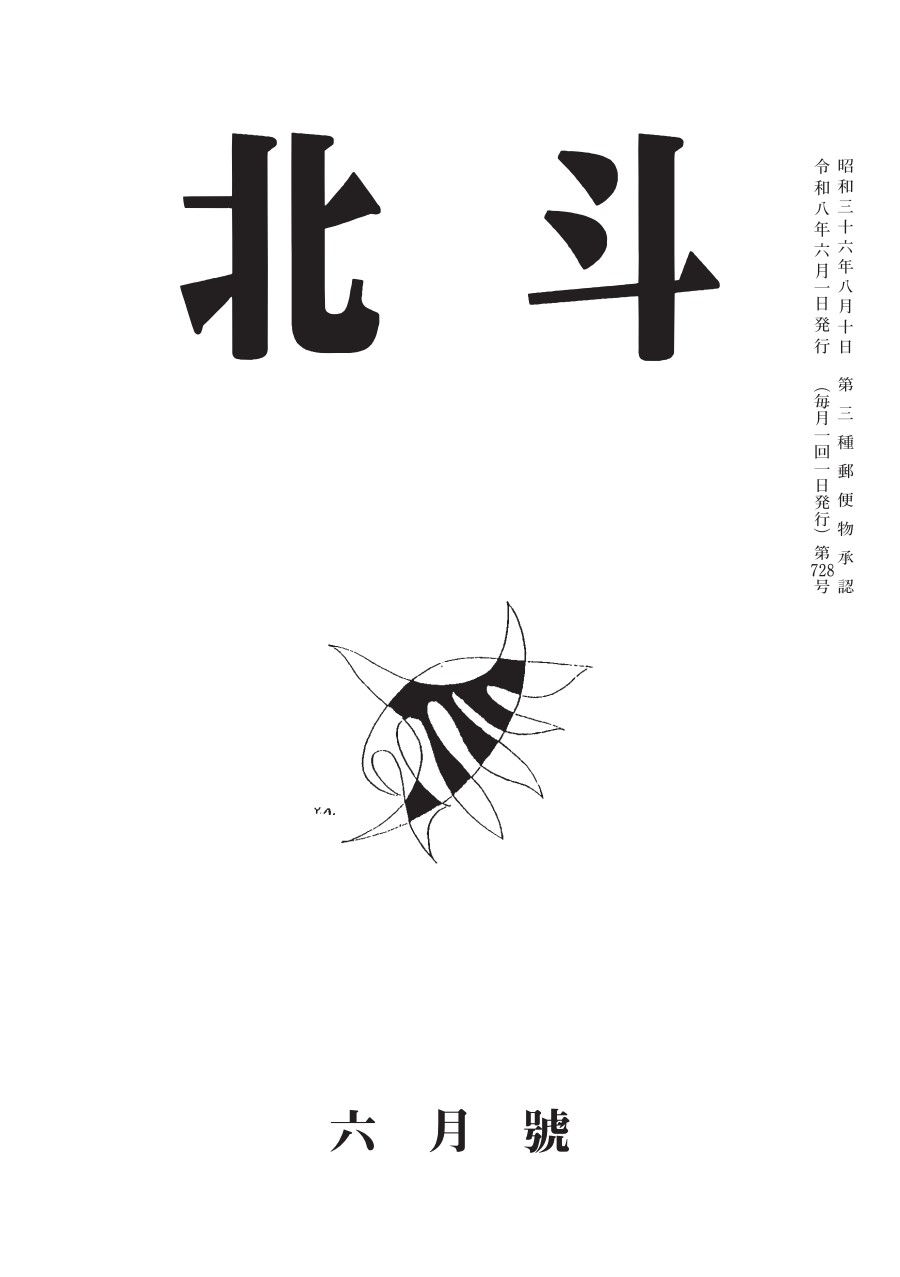
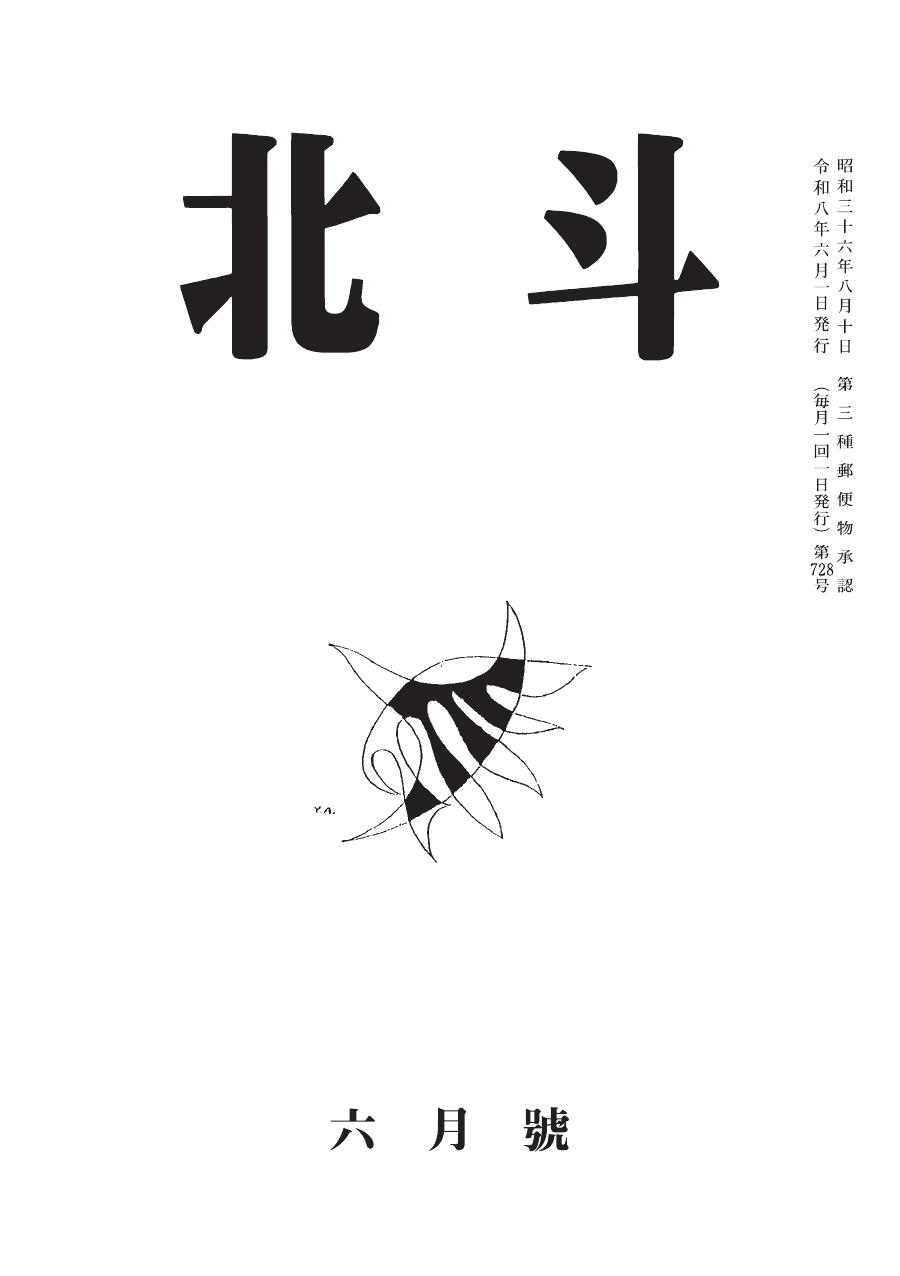
第730号とバックナンバー表紙を更新

diff --git a/index_a.html b/index_a.html
@@ -43,9 +43,9 @@
 
     <!-- ================================================================
          【毎月の更新方法】新しい号が出たとき
-         1. 表紙の画像を images フォルダに入れる（ファイル名の例：cover_729.jpg）
-         2. 下の cover_728.jpg → cover_729.jpg に書き換える
-         3. 「第 728 号」「令和8年（2026年）6月1日発行」を新しい号に書き換える
+         1. 表紙の画像を images フォルダに入れる（ファイル名の例：cover_731.jpg）
+         2. 下の cover_730.jpg → cover_731.jpg に書き換える
+         3. 「第 730 号」「令和8年（2026年）9月1日発行」を新しい号に書き換える
          4. 目次の表（作品名・著者・ページ）を新しい号の内容に書き換える
          ================================================================ -->
 
@@ -54,51 +54,53 @@
       <div class="latest-issue-body">
 
         <div class="cover-area">
-          <img src="images/cover_728.jpg" alt="北斗 第728号（令和8年6月號）表紙" class="cover-img">
-          <p class="cover-caption">第728号　頒価：500円</p>
+          <img src="images/cover_730.jpg" alt="北斗 第730号（令和8年9月號）表紙" class="cover-img">
+          <p class="cover-caption">第730号　頒価：500円</p>
         </div>
 
         <div class="toc-area">
           <h2>目　次</h2>
-          <p class="toc-meta">第 728 号　令和8年（2026年）6月1日発行</p>
+          <p class="toc-meta">第 730 号　令和8年（2026年）9月1日発行</p>
 
           <div class="toc-genre">
             <span class="toc-genre-label">小　説</span>
             <table class="toc-table">
-              <tr><td class="work-title">終の住み処を探して</td><td class="work-author">永野佳奈子</td><td class="work-page">p.2</td></tr>
-              <tr><td class="work-title">おれの日常を取り戻すことの件（二）</td><td class="work-author">高田杜康</td><td class="work-page">p.6</td></tr>
-              <tr><td class="work-title">ひとりになれば（その五）</td><td class="work-author">藁科眞魚</td><td class="work-page">p.10</td></tr>
+              <tr><td class="work-title">面白くて非なるもの</td><td class="work-author">永野佳奈子</td><td class="work-page">p.2</td></tr>
+              <tr><td class="work-title">おれの日常を取り戻すことの件（四）</td><td class="work-author">高田杜康</td><td class="work-page">p.6</td></tr>
+              <tr><td class="work-title">ひとりになれば（その六）</td><td class="work-author">藁科眞魚</td><td class="work-page">p.10</td></tr>
             </table>
           </div>
 
           <div class="toc-genre">
             <span class="toc-genre-label poem">詩</span>
             <table class="toc-table">
-              <tr><td class="work-title">発泡スチロール</td><td class="work-author">藁科眞魚</td><td class="work-page">p.12</td></tr>
+              <tr><td class="work-title">バンビが死んだ日</td><td class="work-author">藁科眞魚</td><td class="work-page">p.12</td></tr>
             </table>
           </div>
 
           <div class="toc-genre">
             <span class="toc-genre-label essay">エッセイ</span>
             <table class="toc-table">
-              <tr><td class="work-title">文明か野蛮か</td><td class="work-author">竹中　忍</td><td class="work-page">p.14</td></tr>
-              <tr><td class="work-title">視聴率</td><td class="work-author">寺田　繁</td><td class="work-page">p.16</td></tr>
-              <tr><td class="work-title">現代人が失った能力 ／ 庭の客人</td><td class="work-author">池田龍一</td><td class="work-page">p.18</td></tr>
+              <tr><td class="work-title">山村生活―その後―　変わりゆく環境／天動説</td><td class="work-author">池田龍一</td><td class="work-page">p.14</td></tr>
+              <tr><td class="work-title">スーダラ受験生</td><td class="work-author">寺田　繁</td><td class="work-page">p.18</td></tr>
+              <tr><td class="work-title">ねこんけ雨</td><td class="work-author">椎名ゆき</td><td class="work-page">p.20</td></tr>
+              <tr><td class="work-title">忙中悲哀あり――愛犬との暮らし</td><td class="work-author">竹中　忍</td><td class="work-page">p.23</td></tr>
             </table>
           </div>
 
           <div class="toc-genre">
             <span class="toc-genre-label critic">評　論</span>
             <table class="toc-table">
-              <tr><td class="work-title">平塚らいてう（35）</td><td class="work-author">ゲンヒロ</td><td class="work-page">p.22</td></tr>
+              <tr><td class="work-title">平塚らいてう（36）</td><td class="work-author">ゲンヒロ</td><td class="work-page">p.54</td></tr>
             </table>
           </div>
 
           <div class="toc-genre">
             <span class="toc-genre-label misc">その他</span>
             <table class="toc-table">
-              <tr><td class="work-title">人工天文台（同人エッセイ欄）</td><td class="work-author">森さくら 他</td><td class="work-page">p.26</td></tr>
-              <tr><td class="work-title">編集後記</td><td class="work-author"></td><td class="work-page">p.32</td></tr>
+              <tr><td class="work-title">人工天文台（同人エッセイ欄）</td><td class="work-author">同人各位</td><td class="work-page">p.58</td></tr>
+              <tr><td class="work-title">「北斗」ホームページ開設のお知らせ</td><td class="work-author"></td><td class="work-page">p.63</td></tr>
+              <tr><td class="work-title">編集後記</td><td class="work-author"></td><td class="work-page">p.64</td></tr>
             </table>
           </div>
 
@@ -113,8 +115,8 @@
       <h3>お知らせ・会合案内</h3>
       <ul class="notice-list">
         <li>
-          <span class="notice-date">2026年6月1日</span>
-          <span><span class="notice-new">NEW</span>第728号（令和8年6月號）を発行しました。</span>
+          <span class="notice-date">2026年9月1日</span>
+          <span><span class="notice-new">NEW</span>第730号（令和8年9月號）を発行しました。</span>
         </li>
         <!-- ▼ 次回会合の日時が決まったら、下の行を書き換えてください ▼ -->
         <li>
@@ -137,24 +139,24 @@
       <div class="sidebar-block-body">
         <ul class="bn-side-list">
           <li>
-            <div class="bn-thumb-placeholder">北斗</div>
+            <div class="bn-thumb"><img src="images/cover_729.jpg" alt="第729号 表紙"></div>
+            <div class="bn-info"><div class="bn-num"><a href="backnumber_a.html#no729">第729号</a></div><div class="bn-date">令和8年 七・八月合併號</div></div>
+          </li>
+          <li>
+            <div class="bn-thumb"><img src="images/cover_728.jpg" alt="第728号 表紙"></div>
+            <div class="bn-info"><div class="bn-num"><a href="backnumber_a.html#no728">第728号</a></div><div class="bn-date">令和8年6月號</div></div>
+          </li>
+          <li>
+            <div class="bn-thumb"><img src="images/cover_727.jpg" alt="第727号 表紙"></div>
             <div class="bn-info"><div class="bn-num"><a href="backnumber_a.html#no727">第727号</a></div><div class="bn-date">令和8年5月號</div></div>
           </li>
           <li>
-            <div class="bn-thumb-placeholder">北斗</div>
+            <div class="bn-thumb"><img src="images/cover_726.jpg" alt="第726号 表紙"></div>
             <div class="bn-info"><div class="bn-num"><a href="backnumber_a.html#no726">第726号</a></div><div class="bn-date">令和8年4月號</div></div>
           </li>
           <li>
-            <div class="bn-thumb-placeholder">北斗</div>
+            <div class="bn-thumb"><img src="images/cover_725.jpg" alt="第725号 表紙"></div>
             <div class="bn-info"><div class="bn-num"><a href="backnumber_a.html#no725">第725号</a></div><div class="bn-date">令和8年3月號</div></div>
-          </li>
-          <li>
-            <div class="bn-thumb-placeholder">北斗</div>
-            <div class="bn-info"><div class="bn-num"><a href="backnumber_a.html#no724">第724号</a></div><div class="bn-date">令和8年2月號</div></div>
-          </li>
-          <li>
-            <div class="bn-thumb-placeholder">北斗</div>
-            <div class="bn-info"><div class="bn-num"><a href="backnumber_a.html#no723">第723号</a></div><div class="bn-date">令和8年1月號</div></div>
           </li>
         </ul>
         <p class="sidebar-more"><a href="backnumber_a.html">▶ バックナンバー一覧</a></p>
@@ -165,7 +167,7 @@
       <div class="sidebar-block-header">▶ 最近のブログ</div>
       <div class="sidebar-block-body">
         <ul class="blog-side-list">
-          <li><span class="blog-side-date">2026年6月1日</span><a href="blog_a.html#post005">第728号を発行しました</a></li>
+          <li><span class="blog-side-date">2026年9月1日</span><a href="index_a.html">第730号を発行しました</a></li>
           <li><span class="blog-side-date">例会報告</span><a href="blog_a.html#post004">例会を開催しました</a></li>
           <li><span class="blog-side-date">2023年10月</span><a href="blog_a.html#post003">北斗700號記念 文化セミナー</a></li>
           <li><span class="blog-side-date">2008年9月</span><a href="blog_a.html#post002">創刊550号記念会・受賞祝賀会</a></li>

diff --git a/backnumber_a.html b/backnumber_a.html
@@ -52,20 +52,58 @@
           （現在はPDF公開準備中です）
        ================================================================ -->
 
-  <div class="admin-note">
-    <strong>【管理者向けメモ】</strong><br>
-    第728号（令和8年6月號）のみ、実際の表紙・目次を掲載しています。<br>
-    それ以外の号は<strong>枠だけを用意した仮置き</strong>です。号数と発行月は「毎月1日発行」から逆算した想定値のため、
-    バックナンバー資料をいただき次第、正しい情報に差し替えます。<br>
-    PDFファイルは <code>pdfs/</code> フォルダに入れてください（例：<code>pdfs/hokuto_728.pdf</code>）。<br>
-    PDFが未公開の号は「PDF準備中」と表示しています。PDF公開時にダウンロードリンクへ差し替えてください。<br>
-    このメモ欄は公開前に削除してください（<code>&lt;div class="admin-note"&gt;〜&lt;/div&gt;</code> ごと削除）。
-  </div>
+  <p style="margin:0 0 22px;color:#6a5a40;font-size:0.9rem;line-height:1.9;">
+    表紙画像を掲載している号は、実際の表紙をご覧いただけます。本文PDFは現在公開準備中です。
+  </p>
 
   <!-- ▼▼▼ 令和8年（2026年） ▼▼▼ -->
   <div class="year-section">
     <div class="year-label">令和8年（2026年）</div>
     <div class="bn-grid">
+
+      <div class="card bn-card" id="no730">
+        <div class="bn-card-cover">
+          <img src="images/cover_730.jpg" alt="第730号 表紙">
+        </div>
+        <div class="bn-card-body">
+          <div class="bn-card-no">第730号</div>
+          <div class="bn-card-date">令和8年9月1日発行　頒価500円</div>
+          <details style="margin-top:8px;">
+            <summary class="bn-toc-toggle">▶ 目次を見る</summary>
+            <div class="bn-toc-content">
+              【小説】面白くて非なるもの／永野佳奈子<br>
+              【小説】おれの日常を取り戻すことの件（四）／高田杜康<br>
+              【小説】ひとりになれば（その六）／藁科眞魚<br>
+              【詩】バンビが死んだ日／藁科眞魚<br>
+              【エッセイ】山村生活―その後―　変わりゆく環境／天動説／池田龍一<br>
+              【評論】平塚らいてう（36）／ゲンヒロ<br>
+              人工天文台／編集後記　ほか
+            </div>
+          </details>
+          <span class="btn-download disabled preparing" aria-disabled="true">PDF準備中</span>
+        </div>
+      </div>
+
+      <div class="card bn-card" id="no729">
+        <div class="bn-card-cover">
+          <img src="images/cover_729.jpg" alt="第729号 表紙">
+        </div>
+        <div class="bn-card-body">
+          <div class="bn-card-no">第729号</div>
+          <div class="bn-card-date">令和8年7月1日発行　七・八月合併號　頒価500円</div>
+          <details style="margin-top:8px;">
+            <summary class="bn-toc-toggle">▶ 目次を見る</summary>
+            <div class="bn-toc-content">
+              【小説】おれの日常を取り戻すことの件（三）／高田杜康<br>
+              【評論】冤罪を作らず／竹中忍<br>
+              【詩】はるの祝祭のスケルツォ／藁科眞魚<br>
+              【特集】寺田繁著『小説岡戸武平 乱歩わが友』<br>
+              人工天文台／編集後記　ほか
+            </div>
+          </details>
+          <span class="btn-download disabled preparing" aria-disabled="true">PDF準備中</span>
+        </div>
+      </div>
 
       <div class="card bn-card" id="no728">
         <div class="bn-card-cover">
@@ -94,10 +132,7 @@
 
       <div class="card bn-card" id="no727">
         <div class="bn-card-cover">
-          <div class="bn-card-cover-placeholder">
-            <div class="bn-card-cover-title">北斗</div>
-            <div class="bn-card-cover-num">第727号</div>
-          </div>
+          <img src="images/cover_727.jpg" alt="第727号 表紙">
         </div>
         <div class="bn-card-body">
           <div class="bn-card-no">第727号</div>
@@ -112,10 +147,7 @@
 
       <div class="card bn-card" id="no726">
         <div class="bn-card-cover">
-          <div class="bn-card-cover-placeholder">
-            <div class="bn-card-cover-title">北斗</div>
-            <div class="bn-card-cover-num">第726号</div>
-          </div>
+          <img src="images/cover_726.jpg" alt="第726号 表紙">
         </div>
         <div class="bn-card-body">
           <div class="bn-card-no">第726号</div>
@@ -130,10 +162,7 @@
 
       <div class="card bn-card" id="no725">
         <div class="bn-card-cover">
-          <div class="bn-card-cover-placeholder">
-            <div class="bn-card-cover-title">北斗</div>
-            <div class="bn-card-cover-num">第725号</div>
-          </div>
+          <img src="images/cover_725.jpg" alt="第725号 表紙">
         </div>
         <div class="bn-card-body">
           <div class="bn-card-no">第725号</div>
@@ -148,10 +177,7 @@
 
       <div class="card bn-card" id="no724">
         <div class="bn-card-cover">
-          <div class="bn-card-cover-placeholder">
-            <div class="bn-card-cover-title">北斗</div>
-            <div class="bn-card-cover-num">第724号</div>
-          </div>
+          <img src="images/cover_724.jpg" alt="第724号 表紙">
         </div>
         <div class="bn-card-body">
           <div class="bn-card-no">第724号</div>
@@ -166,10 +192,7 @@
 
       <div class="card bn-card" id="no723">
         <div class="bn-card-cover">
-          <div class="bn-card-cover-placeholder">
-            <div class="bn-card-cover-title">北斗</div>
-            <div class="bn-card-cover-num">第723号</div>
-          </div>
+          <img src="images/cover_723.jpg" alt="第723号 表紙">
         </div>
         <div class="bn-card-body">
           <div class="bn-card-no">第723号</div>
@@ -206,10 +229,7 @@
 
       <div class="card bn-card" id="no721">
         <div class="bn-card-cover">
-          <div class="bn-card-cover-placeholder">
-            <div class="bn-card-cover-title">北斗</div>
-            <div class="bn-card-cover-num">第721号</div>
-          </div>
+          <img src="images/cover_721.jpg" alt="第721号 表紙">
         </div>
         <div class="bn-card-body">
           <div class="bn-card-no">第721号</div>
@@ -220,10 +240,7 @@
 
       <div class="card bn-card" id="no720">
         <div class="bn-card-cover">
-          <div class="bn-card-cover-placeholder">
-            <div class="bn-card-cover-title">北斗</div>
-            <div class="bn-card-cover-num">第720号</div>
-          </div>
+          <img src="images/cover_720.jpg" alt="第720号 表紙">
         </div>
         <div class="bn-card-body">
           <div class="bn-card-no">第720号</div>
@@ -234,10 +251,7 @@
 
       <div class="card bn-card" id="no719">
         <div class="bn-card-cover">
-          <div class="bn-card-cover-placeholder">
-            <div class="bn-card-cover-title">北斗</div>
-            <div class="bn-card-cover-num">第719号</div>
-          </div>
+          <img src="images/cover_719.jpg" alt="第719号 表紙">
         </div>
         <div class="bn-card-body">
           <div class="bn-card-no">第719号</div>

diff --git a/style_a.css b/style_a.css
@@ -329,10 +329,13 @@ nav ul li a.active {
 }
 .bn-card { overflow: hidden; transition: box-shadow 0.2s; }
 .bn-card:hover { box-shadow: 4px 4px 16px rgba(100,80,40,0.20); }
-.bn-card-cover { width: 100%; height: 150px; overflow: hidden; background: #1c1208; }
-.bn-card-cover img { width: 100%; height: 150px; object-fit: cover; object-position: top; }
+.bn-card-cover {
+  width: 100%; height: 220px; overflow: hidden; background: #fff;
+  display: flex; align-items: center; justify-content: center;
+}
+.bn-card-cover img { width: 100%; height: 220px; object-fit: contain; object-position: center; }
 .bn-card-cover-placeholder {
-  width: 100%; height: 150px;
+  width: 100%; height: 220px;
   background: linear-gradient(160deg, #1c1208 0%, #3a2a14 100%);
   display: flex; flex-direction: column; align-items: center; justify-content: center;
   color: #f2ead8;
